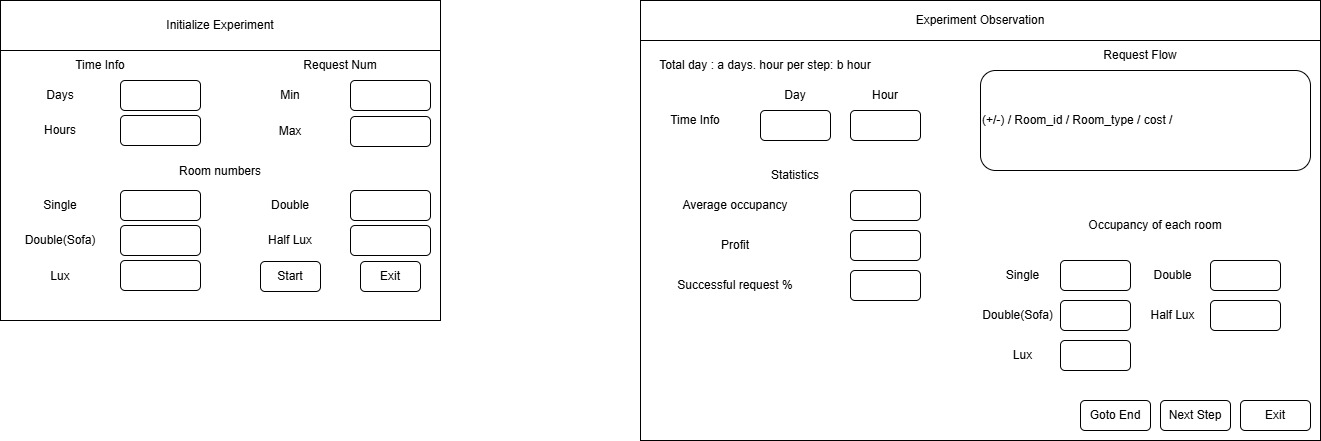
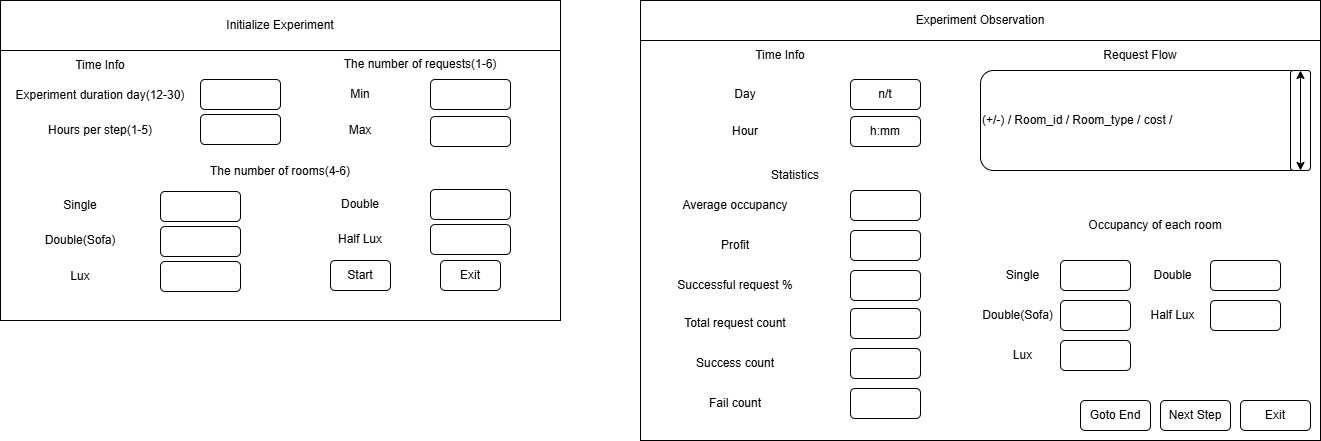
chore:Observation-field

diff --git a/View/InitWindow.py b/View/InitWindow.py
@@ -29,8 +29,6 @@ class InitWindow(GUI):
         # --- Top Labels ---
         # Create a label for time-related input information.
         tk.Label(self, text="Time Info").grid(row=0, columnspan=2)
-        # Create a label for request number input with a hint of the valid range.
-        tk.Label(self, text="The number of requests(1-6)").grid(row=0, column=2, columnspan=2)
 
         # --- Input Fields for Time Parameters ---
         # Create label and entry for total experiment days with a valid range hint.
@@ -40,12 +38,14 @@ class InitWindow(GUI):
         self.entry_days.insert(0, "20")  # Default value
 
         # Create label and entry for steps per day with a valid range hint.
-        tk.Label(self, text="Hour per step(1-5):").grid(row=2, column=0, padx=10, pady=5, sticky="w")
+        tk.Label(self, text="Hours per step(1-5):").grid(row=2, column=0, padx=10, pady=5, sticky="w")
         self.entry_step = tk.Entry(self, width=5)
         self.entry_step.grid(row=2, column=1, padx=10, pady=5)
         self.entry_step.insert(0, "3")  # Default value
 
         # --- Input Fields for Request Number Range ---
+        # Create a label for request number input with a hint of the valid range.
+        tk.Label(self, text="The number of requests(1-6)").grid(row=0, column=2, columnspan=2)
         # Create labels for the minimum and maximum number of requests per step.
         tk.Label(self, text="Min").grid(row=1, column=2, padx=10, pady=5, sticky="w")
         tk.Label(self, text="Max").grid(row=2, column=2, padx=10, pady=5, sticky="w")

diff --git a/View/ObservationWindow.py b/View/ObservationWindow.py
@@ -28,17 +28,17 @@ class ObservationWindow(tk.Toplevel, GUI):
 
         # ========= Top Label Section =========
         # Create a frame at the top for displaying initial experiment settings.
-        top_frame = tk.Frame(self)
-        top_frame.pack(side=tk.TOP, fill=tk.X, padx=10, pady=5)
+        # top_frame = tk.Frame(self)
+        # top_frame.pack(side=tk.TOP, fill=tk.X, padx=10, pady=5)
 
         # Retrieve initial experiment parameters (total days and hours per simulation step).
-        days, step = self.controller.get_init_info()
-        self.lbl_experiment_info = tk.Label(
-            top_frame,
-            text=f"Total days = {days} day, hour per step = {step} hours",
-            font=("Arial", 11, "bold")
-        )
-        self.lbl_experiment_info.pack(side=tk.LEFT)
+        # days, step = self.controller.get_init_info()
+        # self.lbl_experiment_info = tk.Label(
+        #     top_frame,
+        #     text=f"Total days = {days} day, hours per step = {step} hour",
+        #     font=("Arial", 11, "bold")
+        # )
+        # self.lbl_experiment_info.pack(side=tk.LEFT)
 
         # ========= Left-side Information Area =========
         # Create a frame on the left side with a grooved border.

diff --git a/Controller/ExperimentController.py b/Controller/ExperimentController.py
@@ -190,7 +190,7 @@ class ExperimentController:
 
         :return: A tuple containing the current day (1-indexed) and the current hour formatted as a string.
         """
-        return f"{self.current_day + 1}", f"{self.current_hour}:00"
+        return f"{self.current_day + 1}/{self.days}", f"{self.current_hour}:00"
 
     def get_init_info(self) -> Tuple[int, int]:
         """
